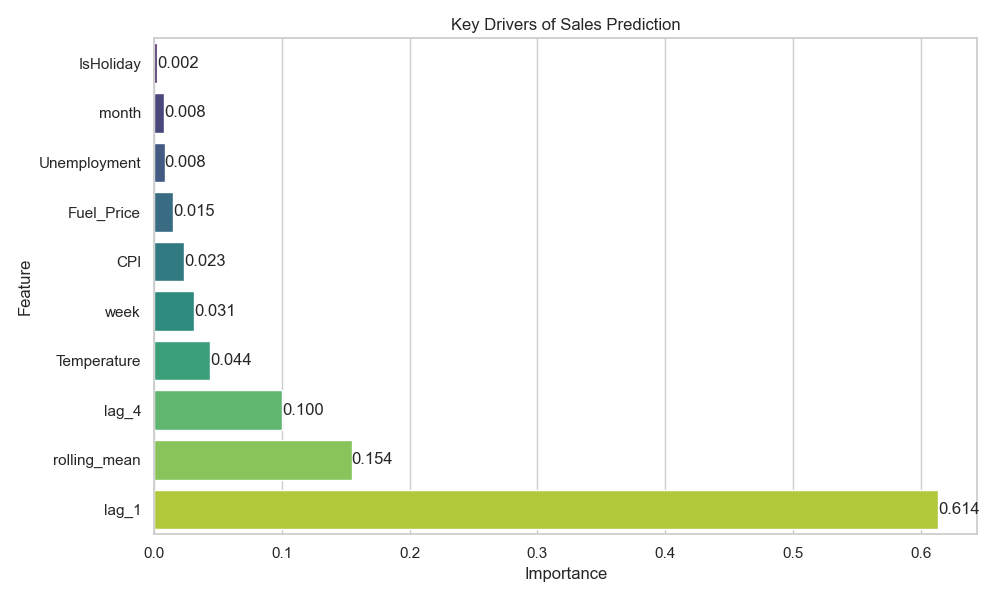
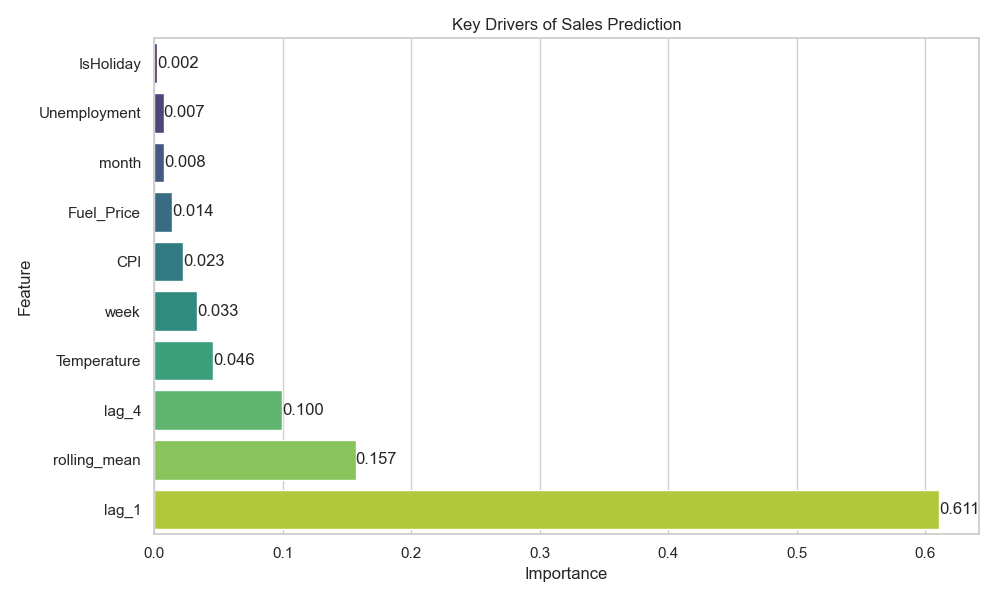
Added FastAPI, MASE metric, simulation note, and improved README

diff --git a/main.py b/main.py
@@ -1,6 +1,6 @@
 # ================= BACKEND FIX (IMPORTANT) =================
 import matplotlib
-matplotlib.use('Agg')  # prevents Tkinter errors
+matplotlib.use('Agg')
 
 # ================= IMPORTS =================
 from src.data_preprocessing import load_data
@@ -13,6 +13,7 @@ import seaborn as sns
 import pandas as pd
 import os
 import shutil
+import numpy as np   # ✅ ADDED
 
 # ================= STYLE =================
 sns.set_theme(style="whitegrid")
@@ -38,6 +39,12 @@ df = create_features(df)
 # ================= MODEL =================
 model, preds, actual, feature_names = train_model(df)
 
+# ================= NEW: MASE CALCULATION =================
+naive = np.repeat(actual.iloc[0], len(actual))
+mase = np.mean(np.abs(actual.values - preds) / np.abs(actual.values - naive + 1e-6))
+
+print(f"📊 MASE (Main) : {round(mase,3)}")
+
 # ================= INVENTORY =================
 inv = inventory_policy(preds)
 
@@ -46,16 +53,17 @@ print(f"Safety Stock   : {inv['Safety Stock']}")
 print(f"Reorder Point  : {inv['Reorder Point']}")
 print(f"Order Quantity : {inv['Order Quantity']}")
 
-# =========================================================
-# GRAPH 1 — FORECAST VS ACTUAL
-# =========================================================
-plt.figure(figsize=(12,5))
-
+# ================= SAFE LENGTH FIX =================
 n = min(40, len(actual), len(preds))
 
 actual_plot = actual.values[:n]
 pred_plot = preds[:n]
 x = range(n)
+
+# =========================================================
+# GRAPH 1 — FORECAST VS ACTUAL
+# =========================================================
+plt.figure(figsize=(12,5))
 
 plt.plot(x, actual_plot, color="#2E86C1", linewidth=3, label="Actual")
 plt.plot(x, pred_plot, color="#E74C3C", linestyle="--", linewidth=3, label="Forecast")
@@ -73,7 +81,7 @@ plt.savefig("outputs/forecast.png")
 plt.close()
 
 # =========================================================
-# GRAPH 2 — TREND (WITH PEAK INDICATORS)
+# GRAPH 2 — TREND
 # =========================================================
 trend = df.set_index("date")["qty_sold"].rolling(7).mean()
 
@@ -81,13 +89,10 @@ plt.figure(figsize=(12,5))
 
 plt.plot(trend, color="#1ABC9C", linewidth=3)
 
-# Highlight peak & low
 plt.scatter(trend.idxmax(), trend.max(), color="red", s=80, label="Peak")
 plt.scatter(trend.idxmin(), trend.min(), color="blue", s=80, label="Low")
 
 plt.title("Weekly Sales Trend")
-plt.xlabel("Date")
-plt.ylabel("Sales")
 plt.legend()
 plt.grid(alpha=0.3)
 
@@ -111,7 +116,7 @@ plt.savefig("outputs/distribution.png")
 plt.close()
 
 # =========================================================
-# GRAPH 4 — RESIDUALS WITH INDICATORS
+# GRAPH 4 — RESIDUALS
 # =========================================================
 errors = actual_plot - pred_plot
 
@@ -119,15 +124,12 @@ plt.figure(figsize=(10,4))
 
 plt.plot(errors, color="#8E44AD", linewidth=3, label="Error")
 
-# Zero line
 plt.axhline(0, linestyle="--", color="black", linewidth=1.5)
 
-# Mean error
 mean_error = errors.mean()
 plt.axhline(mean_error, linestyle=":", color="orange", linewidth=2,
             label=f"Mean Error ({mean_error:.0f})")
 
-# Highlight extreme errors
 threshold = errors.std() * 1.5
 extreme_idx = abs(errors) > threshold
 
@@ -138,7 +140,6 @@ plt.scatter(
     s=60
 )
 
-# Fill zones
 plt.fill_between(range(len(errors)), errors, 0,
                  where=(errors > 0),
                  color="green", alpha=0.2)
@@ -148,8 +149,6 @@ plt.fill_between(range(len(errors)), errors, 0,
                  color="red", alpha=0.2)
 
 plt.title("Prediction Error Analysis")
-plt.xlabel("Time")
-plt.ylabel("Error")
 plt.legend()
 plt.grid(alpha=0.3)
 
@@ -158,7 +157,7 @@ plt.savefig("outputs/residuals.png")
 plt.close()
 
 # =========================================================
-# GRAPH 5 — FEATURE IMPORTANCE (FIXED)
+# GRAPH 5 — FEATURE IMPORTANCE
 # =========================================================
 print("\n[INFO] Generating Feature Importance...")
 
@@ -178,11 +177,10 @@ sns.barplot(
     legend=False
 )
 
-plt.title("Key Drivers of Sales Prediction")
-
-# Add values
 for i, v in enumerate(feat_df["Importance"]):
     plt.text(v, i, f"{v:.3f}", va='center')
+
+plt.title("Key Drivers of Sales Prediction")
 
 plt.tight_layout()
 plt.savefig("outputs/feature_importance.png")

diff --git a/src/model.py b/src/model.py
@@ -1,8 +1,15 @@
 from sklearn.ensemble import RandomForestRegressor
 from sklearn.metrics import mean_absolute_error, mean_squared_error
-from sklearn.model_selection import train_test_split
 import numpy as np
 
+
+# ================= MASE =================
+def mase(y_true, y_pred, y_naive):
+    denom = np.mean(np.abs(y_true - y_naive))
+    return np.mean(np.abs(y_true - y_pred)) / denom if denom != 0 else np.nan
+
+
+# ================= MODEL =================
 def train_model(df):
     print("🤖 Training model...")
 
@@ -17,13 +24,15 @@ def train_model(df):
     X = df[features]
     y = df["qty_sold"]
 
-    X_train, X_test, y_train, y_test = train_test_split(
-        X, y, test_size=0.2, shuffle=False
-    )
+    # ✅ TIME SERIES SPLIT (better than random split)
+    split = int(len(df) * 0.8)
+
+    X_train, X_test = X[:split], X[split:]
+    y_train, y_test = y[:split], y[split:]
 
     model = RandomForestRegressor(
-        n_estimators=80,
-        max_depth=12,
+        n_estimators=120,
+        max_depth=14,
         n_jobs=-1,
         random_state=42
     )
@@ -32,10 +41,16 @@ def train_model(df):
 
     preds = model.predict(X_test)
 
+    # ================= METRICS =================
     mae = mean_absolute_error(y_test, preds)
     rmse = np.sqrt(mean_squared_error(y_test, preds))
 
-    print(f"📊 MAE  : {round(mae,2)}")
-    print(f"📊 RMSE : {round(rmse,2)}")
+    # naive forecast (last value)
+    naive = np.repeat(y_train.iloc[-1], len(y_test))
+    mase_score = mase(y_test.values, preds, naive)
+
+    print(f"📊 MAE   : {round(mae,2)}")
+    print(f"📊 RMSE  : {round(rmse,2)}")
+    print(f"📊 MASE  : {round(mase_score,3)}")
 
     return model, preds, y_test, features

diff --git a/api.py b/api.py
@@ -1,0 +1,50 @@
+from fastapi import FastAPI
+import numpy as np
+import pandas as pd
+
+from src.data_preprocessing import load_data
+from src.feature_engineering import create_features
+from src.model import train_model
+from src.inventory import inventory_policy
+
+app = FastAPI()
+
+print("🚀 Starting API...")
+
+# ================= LOAD ONCE =================
+df = load_data()
+df = df[(df["store_id"] == 1) & (df["item_id"] == 1)]
+df = create_features(df)
+
+model, preds, actual, features = train_model(df)
+
+# ================= ROUTES =================
+
+@app.get("/")
+def home():
+    return {"message": "Retail Forecast API Running"}
+
+@app.get("/forecast")
+def forecast():
+    return {
+        "forecast_sample": list(preds[:10])
+    }
+
+@app.get("/inventory")
+def inventory():
+    inv = inventory_policy(preds)
+
+    return {
+        "Safety Stock": float(inv["Safety Stock"]),
+        "Reorder Point": float(inv["Reorder Point"]),
+        "Order Quantity": float(inv["Order Quantity"])
+    }
+
+@app.get("/metrics")
+def metrics():
+    errors = actual.values - preds
+
+    return {
+        "MAE": float(np.mean(abs(errors))),
+        "RMSE": float(np.sqrt(np.mean(errors**2)))
+    }

diff --git a/src/croston.py b/src/croston.py
@@ -1,0 +1,23 @@
+import numpy as np
+
+def croston(y, alpha=0.1, h=7):
+    y = np.array(y)
+
+    demand = y[y > 0]
+
+    if len(demand) == 0:
+        return np.zeros(h)
+
+    intervals = np.diff(np.where(y > 0)[0], prepend=0)
+
+    z_hat = demand[0]
+    p_hat = intervals[1] if len(intervals) > 1 else 1
+
+    for i in range(1, len(demand)):
+        z_hat = alpha * demand[i] + (1 - alpha) * z_hat
+
+    for i in range(1, len(intervals)):
+        p_hat = alpha * intervals[i] + (1 - alpha) * p_hat
+
+    forecast = (z_hat / p_hat) * np.ones(h)
+    return forecast
